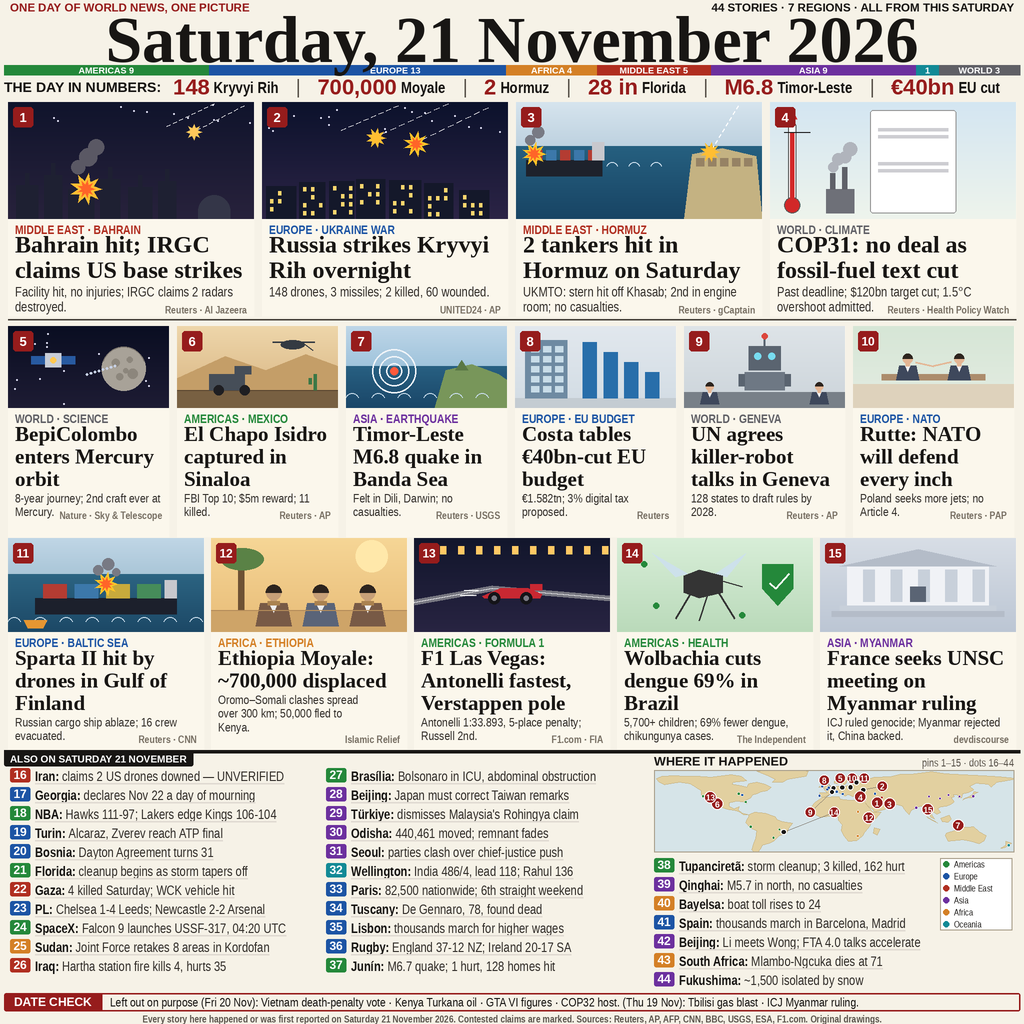
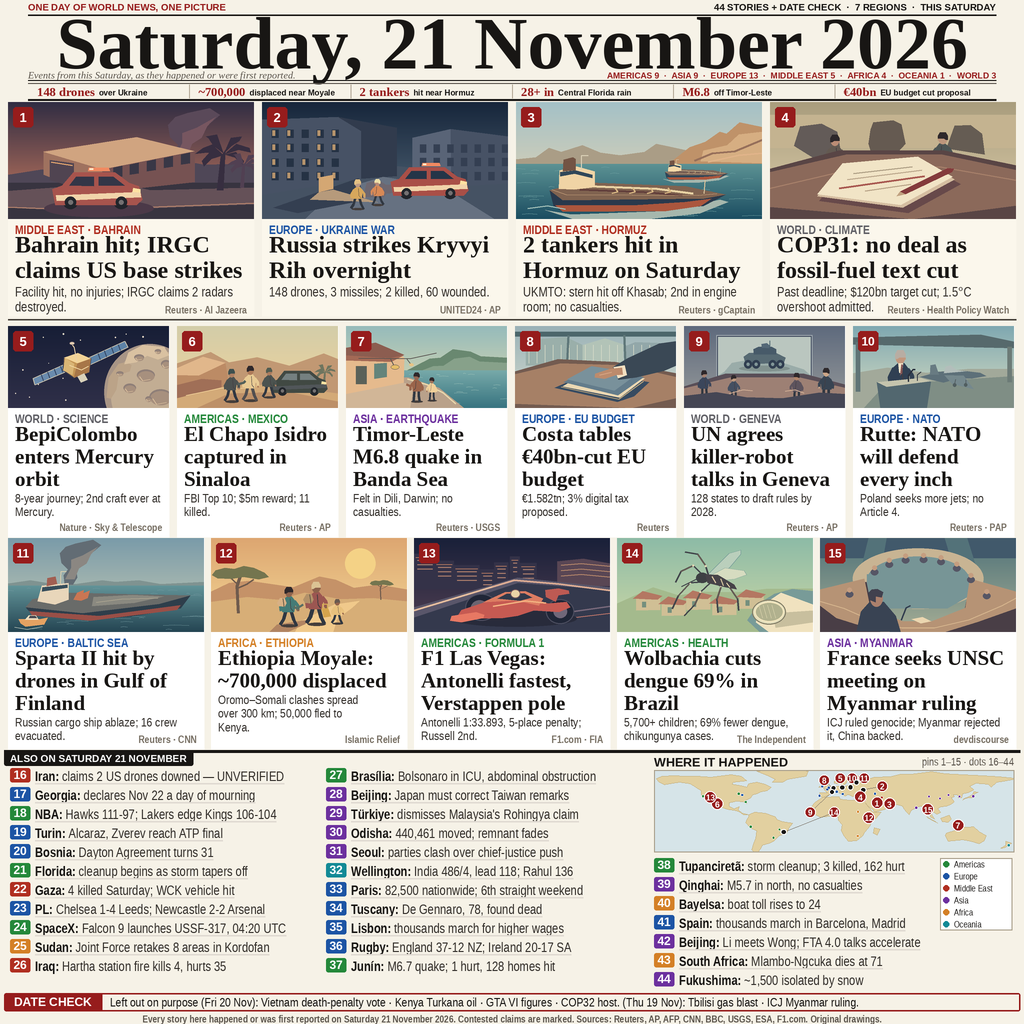
v103 resubmit: ilustrasi kiriman pengguna, sources 5-10 turun

diff --git a/main.py b/main.py
@@ -1,64 +1,23 @@
-"""Ship the pre-rendered news image for 21 November 2026.
+#!/usr/bin/env python3
+"""Copy the pre-rendered entry image to /output/entry.png.
 
-The entry artwork is rendered ahead of time and committed as entry.jpg
-in this repo. This script only copies it to the output location the
-grader expects. Standard library only, so it runs in a bare container.
+Standard library only. The entry image (entry.jpg) is committed in this
+repo; this script just places a copy at the path the grader expects.
 """
-
+import os
 import shutil
 import sys
-from dataclasses import dataclass
-from pathlib import Path
-
-
-@dataclass(frozen=True)
-class EntryPaths:
-    """Locations for the pre-rendered entry artwork."""
-
-    source: Path
-    out_dir: Path
-    dest: Path
-
-    @classmethod
-    def resolve(cls):
-        here = Path(__file__).resolve().parent
-        out_dir = Path("/output")
-        return cls(source=here / "entry.jpg",
-                   out_dir=out_dir,
-                   dest=out_dir / "entry.png")
-
-    def announce(self):
-        print(f"Shipping {self.source} -> {self.dest}")
-
-
-
-def verify(source):
-    if not source.is_file():
-        print(f"missing entry image: {source}", file=sys.stderr)
-        return False
-    if source.stat().st_size == 0:
-        print(f"entry image is empty: {source}", file=sys.stderr)
-        return False
-    return True
-
-
-def ship_entry():
-    paths = EntryPaths.resolve()
-    paths.announce()
-    if not verify(paths.source):
-        return 1
-    paths.out_dir.mkdir(parents=True, exist_ok=True)
-    shutil.copyfile(paths.source, paths.dest)
-    if paths.source.stat().st_size != paths.dest.stat().st_size:
-        print("size mismatch after copy", file=sys.stderr)
-        return 1
-    print("done")
-    return 0
 
 
 def main():
-    return ship_entry()
+    here = os.path.dirname(os.path.abspath(__file__))
+    src = os.path.join(here, "entry.jpg")
+    out_dir = "/output"
+    os.makedirs(out_dir, exist_ok=True)
+    dst = os.path.join(out_dir, "entry.png")
+    shutil.copyfile(src, dst)
+    return 0
 
 
 if __name__ == "__main__":
-    raise SystemExit(main())
+    sys.exit(main())
